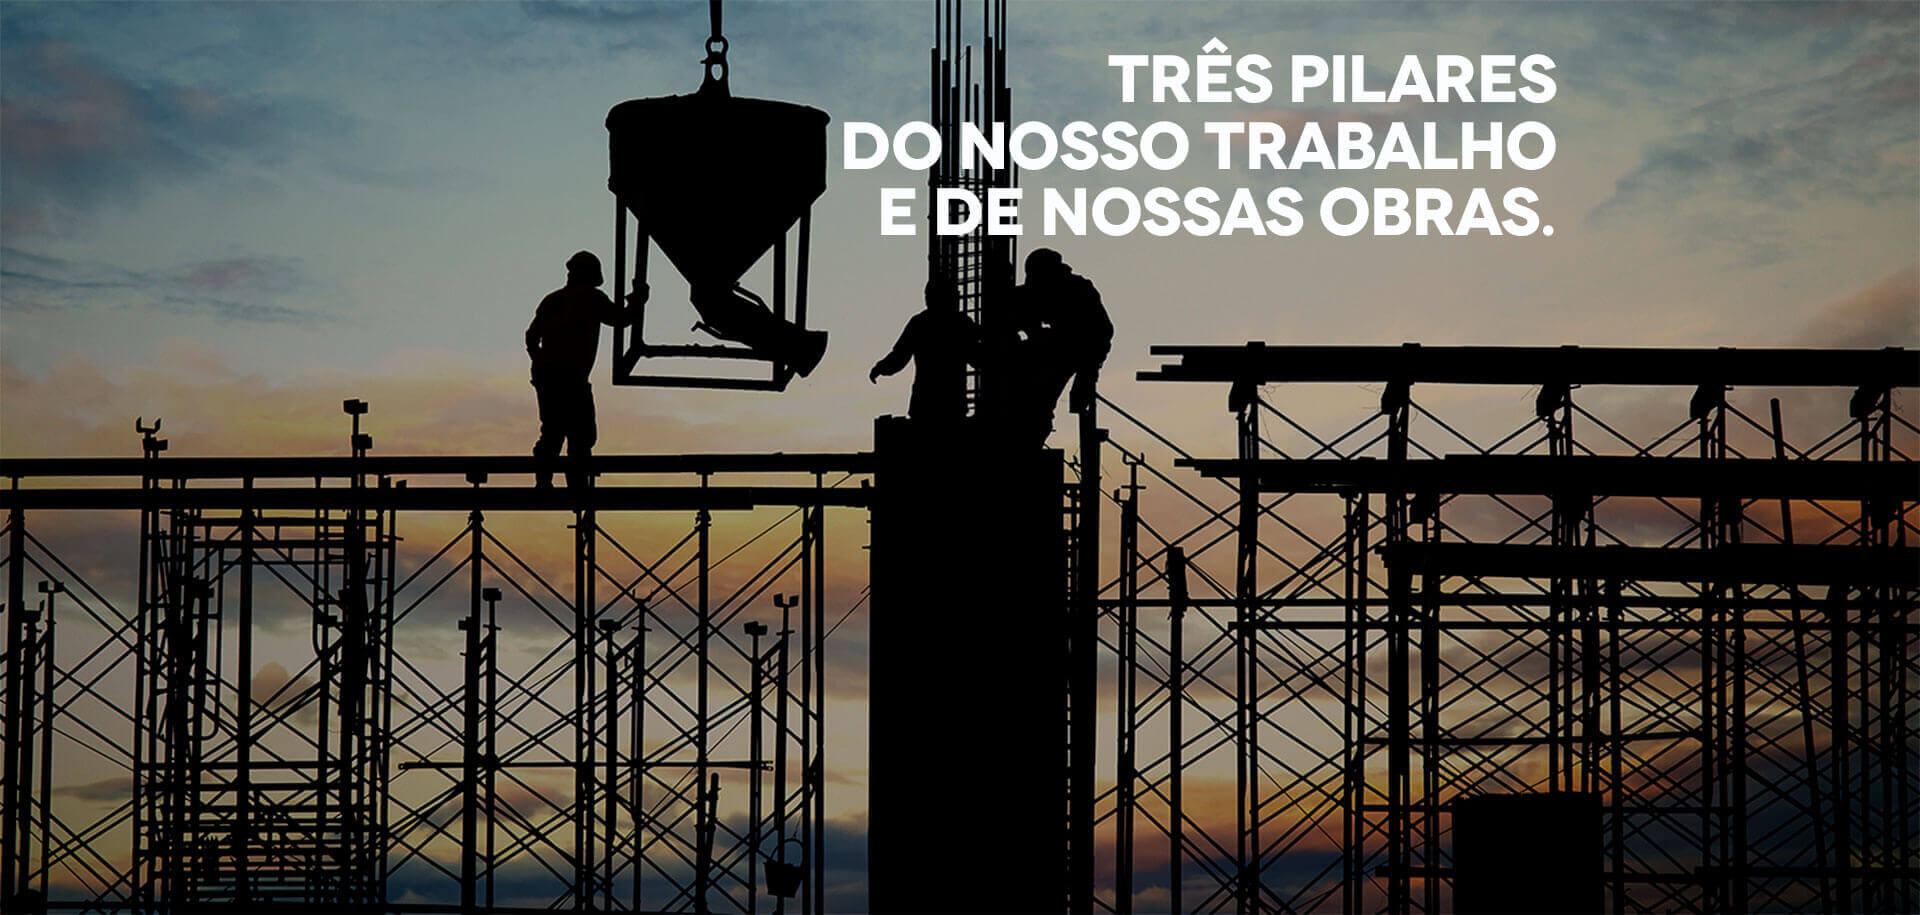
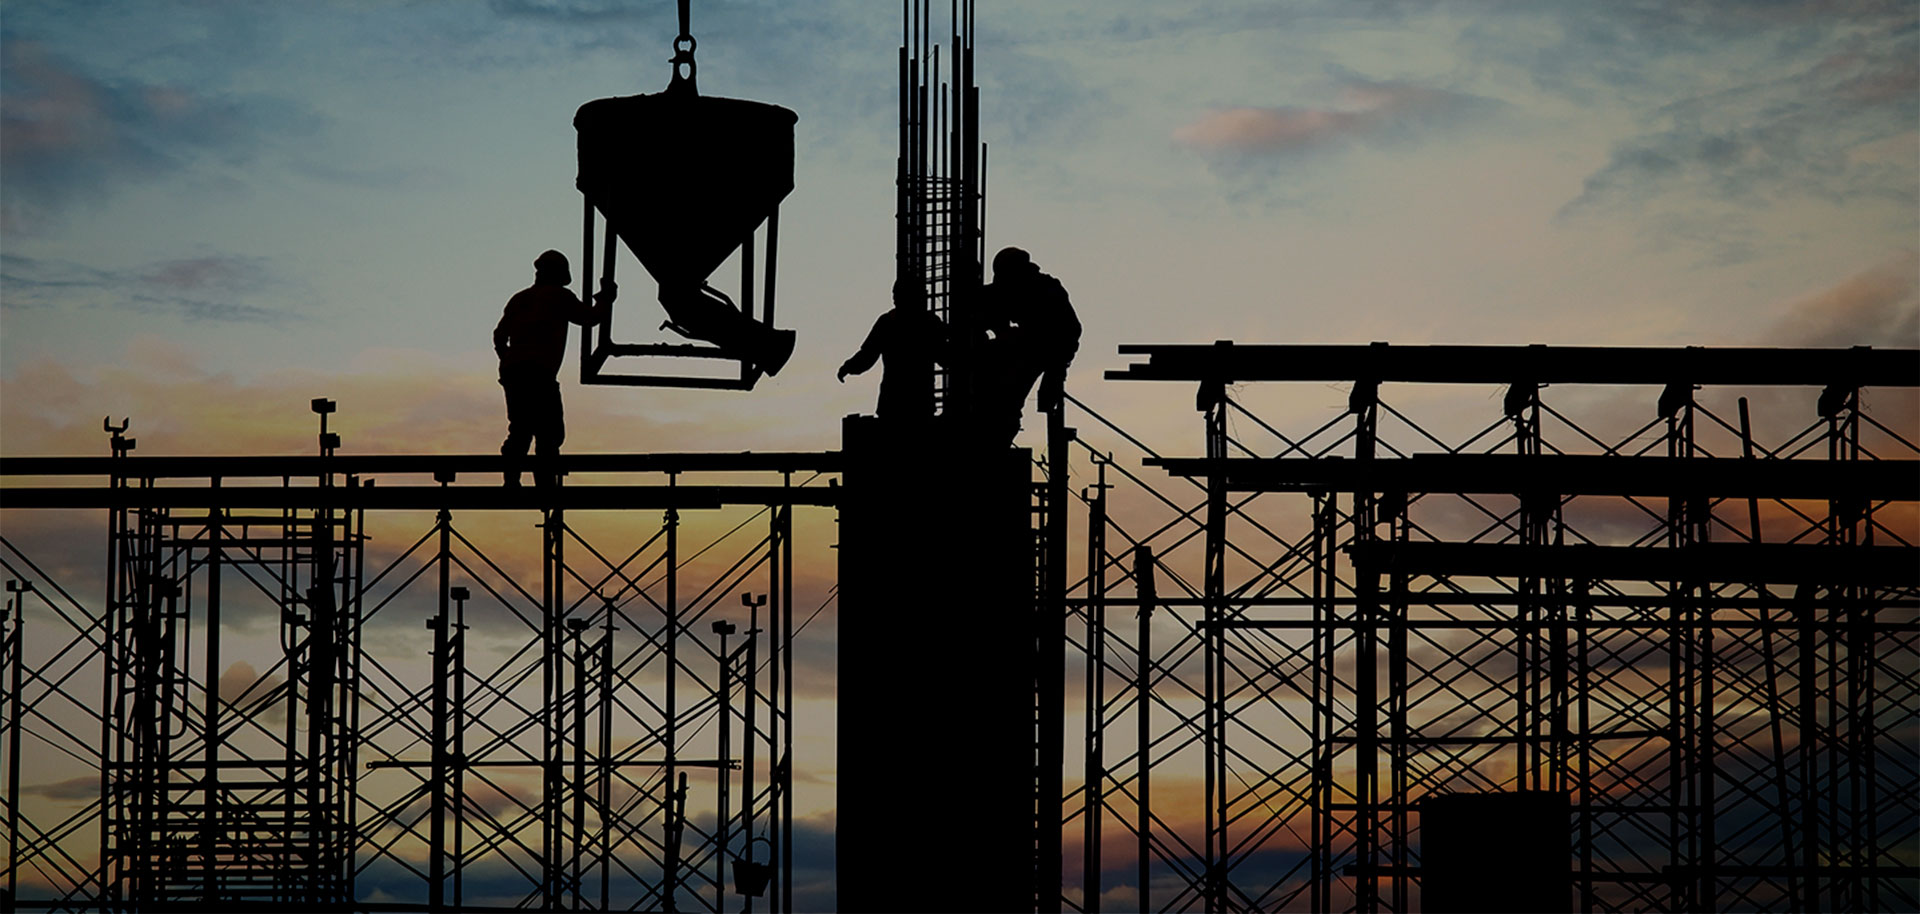
Ajuste cliente

diff --git a/assets/css/historia.css b/assets/css/historia.css
@@ -33,13 +33,30 @@
 }
 
 .historia .pull-right {
-    font-family: 'Roboto', sans-serif;
+    font-family: 'Novecento wide';
     font-weight: bold;
     color: #484b51;
     text-transform: uppercase;
     font-size: 40px;
     line-height: 40px;
     margin: 20px 0 22px 0;
+    text-align: right;
+}
+
+.banner-historia {
+    background: url(../images/banner-historia-2.jpg) center center no-repeat;
+    background-size: cover;
+    height: 642px;
+}
+
+.banner-historia .pull-right {
+    font-family: 'Novecento wide';
+    font-weight: bold;
+    color: #fff;
+    text-transform: uppercase;
+    font-size: 40px;
+    line-height: 40px;
+    margin: 30px 0 22px 0;
     text-align: right;
 }
 
@@ -62,6 +79,14 @@
         text-align: justify;
     }
     .historia .pull-right {
+        font-size: 20px;
+        line-height: 20px;
+        margin: 20px 0 22px 0;
+    }
+    .banner-historia {
+        height: 300px;
+    }
+    .banner-historia .pull-right {
         font-size: 20px;
         line-height: 20px;
         margin: 20px 0 22px 0;

diff --git a/assets/css/contato.css b/assets/css/contato.css
@@ -10,8 +10,8 @@
     /* W3C, IE10+, FF16+, Chrome26+, Opera12+, Safari7+ */
     filter: progid: DXImageTransform.Microsoft.gradient( startColorstr='#74787c', endColorstr='#c5c8cb', GradientType=1);
     /* IE6-9 */
-    padding-top: 67px;
-    padding-bottom: 30px;
+    padding-top: 40px;
+    padding-bottom: 40px;
     overflow: hidden;
 }
 
@@ -23,7 +23,7 @@
     text-transform: uppercase;
     font-size: 20px;
     line-height: 20px;
-    margin: 30px 0 10px 0;
+    margin: 0 0 10px 0;
 }
 
 .contato .txt {

diff --git a/assets/css/lancamentos.css b/assets/css/lancamentos.css
@@ -1,6 +1,9 @@
+.lancamentos {
+    padding-top: 67px;
+}
+
 .lancamentos,
 .lancamentos-futuros {
-    padding-top: 67px;
     overflow: hidden;
 }
 
@@ -75,7 +78,6 @@
     font-size: 15px;
     line-height: 15px;
     background: #dccd6b;
-    ;
     color: #464b50;
     -webkit-border-radius: 20px;
     -moz-border-radius: 20px;

diff --git a/assets/css/reset.css b/assets/css/reset.css
@@ -215,6 +215,10 @@ p {
     margin: 60px auto;
 }
 
+.modal-dialog .carousel-control {
+    opacity: 1;
+}
+
 .close,
 .close:hover {
     color: #fff;

diff --git a/application/views/home_view.php b/application/views/home_view.php
@@ -8,9 +8,9 @@
                 <div class="item">
                     <img class="img-responsive" src="<?= base_url(); ?>assets/images/banner-2.jpg" alt="Banner">
                 </div>
-                <div class="item">
+                <!-- <div class="item">
                     <img class="img-responsive" src="<?= base_url(); ?>assets/images/banner-3.jpg" alt="Banner">
-                </div>
+                </div>-->
                 <div class="item">
                     <img class="img-responsive" src="<?= base_url(); ?>assets/images/banner-4.jpg" alt="Banner">
                 </div>
@@ -48,7 +48,18 @@
             </div>
         </div>
     </div>
-    <img class="img-responsive center-block" src="<?= base_url(); ?>assets/images/banner-historia-2.jpg" alt="História">
+</div>
+
+<div id="banner-historia" class="banner-historia animated wow fadeInUp">
+    <div class="container">
+        <div class="row">
+            <div class="col-xs-12 col-sm-12 col-md-8 col-md-offset-2 text-right">
+                <p class="pull-right">Três pilares<br>
+                    do nosso trabalho<br>
+                    e de nossas obras.</p>
+            </div>
+        </div>
+    </div>
 </div>
 
 <div id="portfolio" class="portfolio">
@@ -180,7 +191,7 @@
 
 <div class="container lancamentos-info animated wow fadeInUp">
     <div class="row">
-        <div class="col-xs-12 col-sm-12 col-md-8 col-md-offset-2 padding-off-mobile">
+        <div class="col-xs-12 col-sm-12 col-md-10 col-md-offset-1 padding-off-mobile">
             <div class="col-xs-12 col-sm-12 col-md-7 text-center">
                 <img class="img-responsive center-block" src="<?= base_url(); ?>assets/images/lancamentos.png" alt="Lançamentos">
             </div>
